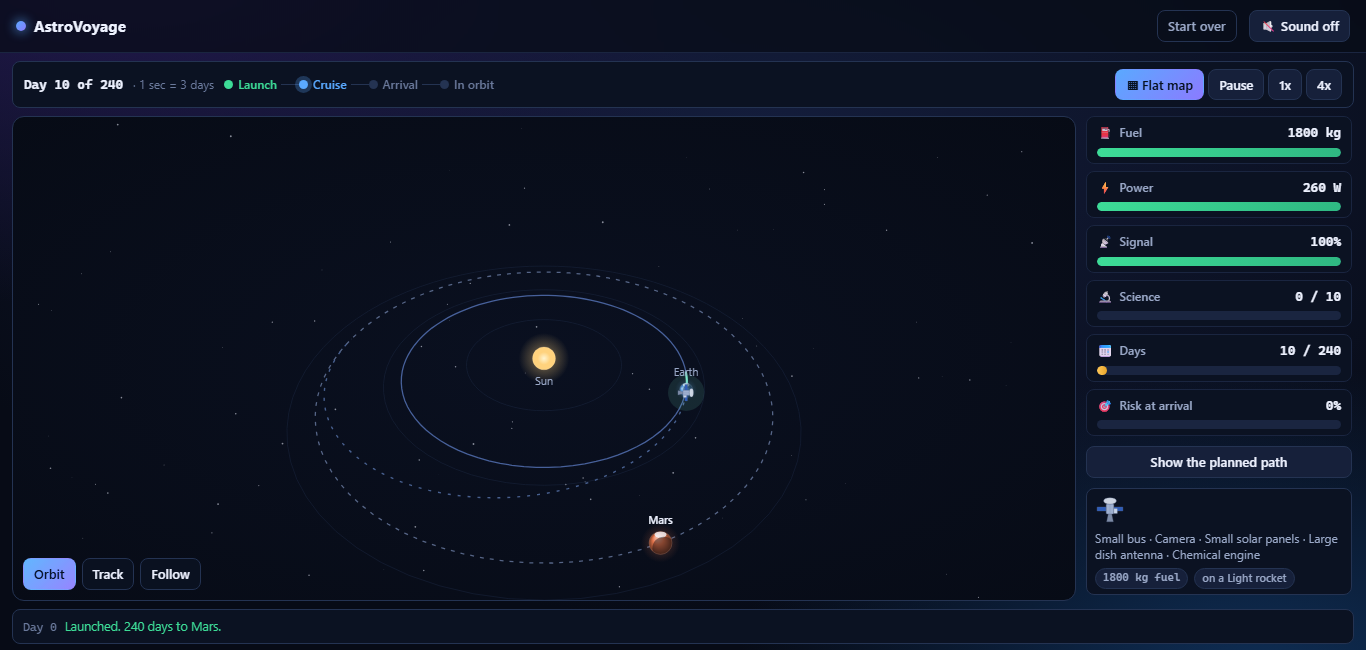
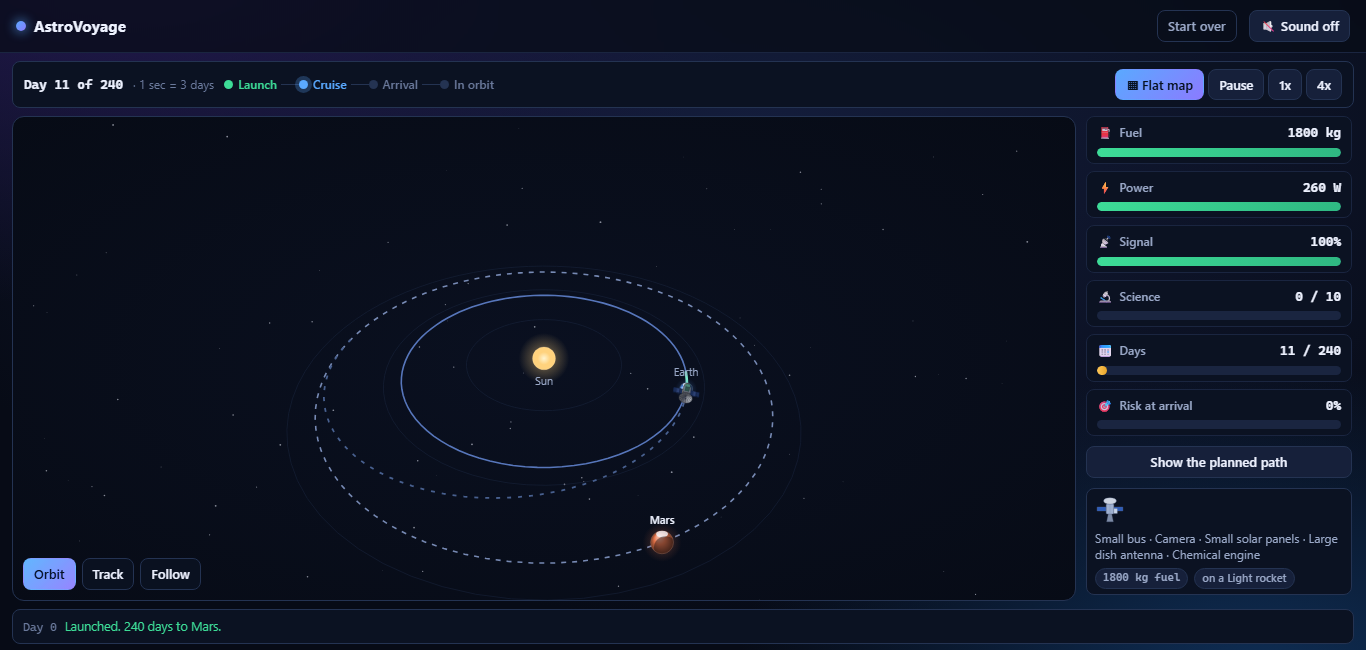
Make the 3D flight view look like something
Kunal sent a screenshot and he was right - it looked bad. Three causes:

- A huge teal blob over the middle. The spacecraft's halo was sized off the
  CAPPED on-screen radius, so in Follow it became a 240px disc. Gone.
- A flat 2D sprite pasted onto a 3D scene. The spacecraft is now the real
  solid model - the same shipFaces the Design Lab's 3D view uses - standing
  where the mission has got to, turned so its nose agrees with its heading,
  and lit from the Sun. That needed one new function, renderWith: the same
  cull-project-sort as the model viewer, but through a camera that can stand
  anywhere rather than one bolted to the +z axis.
- Orbits and the flown path too faint to read. Brighter and thicker.

And the follow camera sat dead astern, so you stared at the spacecraft's
back. It is held off to one side now for a three-quarter view, with the
spacecraft drawn half again as large, so you can see the dish, the panels,
the instrument box and the engine bell at once.

372 tests still passing. Build passes. measure clean at 1366x650 and
390x844.

diff --git a/src/components/FlightMap3D.tsx b/src/components/FlightMap3D.tsx
@@ -17,13 +17,21 @@ import {
   CAMERA_MODES,
   buildScene,
   cameraFor,
+  shipInScene,
   starSphere,
   startingPitch,
 } from "../sim/flight3d";
 import type { CameraMode } from "../sim/flight3d";
-import { projectPath, projectView, sizeAt, viewBasis } from "../sim/render3d";
+import {
+  projectPath,
+  projectView,
+  renderWith,
+  shadeColor,
+  sizeAt,
+  svgPoints,
+  viewBasis,
+} from "../sim/render3d";
 import type { SimState } from "../sim/simulation";
-import { ShipSprite } from "./Spacecraft";
 import Planet from "./Planet";
 
 interface Props {
@@ -150,6 +158,13 @@ export default function FlightMap3D({
       targetRing: projectPath(scene.targetRing, view, basis, centre),
       flownPath: projectPath(scene.path.slice(0, scene.flown + 1), view, basis, centre),
       aheadPath: projectPath(scene.path.slice(scene.flown), view, basis, centre),
+      ship3d: (() => {
+        const built = shipInScene(sim.design, scene);
+        return renderWith(built.faces, view, basis, centre, built.light, {
+          ambient: 0.34,
+          range: 0.66,
+        });
+      })(),
       sun: body(scene.sun, sceneConfig.sunRadius),
       earth: body(scene.earth, sceneConfig.earthRadius),
       target: body(scene.target, sceneConfig.targetRadius),
@@ -209,14 +224,15 @@ export default function FlightMap3D({
         {/* ---- the two orbits */}
         <g fill="none" strokeWidth={1.3}>
           {drawn.startRing.length > 1 && (
-            <polyline points={line(drawn.startRing)} stroke={colors.startRing} opacity={0.75} />
+            <polyline points={line(drawn.startRing)} stroke={colors.startRing} opacity={0.95} strokeWidth={1.6} />
           )}
           {drawn.targetRing.length > 1 && (
             <polyline
               points={line(drawn.targetRing)}
               stroke={colors.targetRing}
-              opacity={0.6}
-              strokeDasharray="4 6"
+              opacity={0.85}
+              strokeWidth={1.6}
+              strokeDasharray="5 6"
             />
           )}
         </g>
@@ -227,15 +243,15 @@ export default function FlightMap3D({
             <polyline
               points={line(drawn.aheadPath)}
               stroke={colors.pathAhead}
-              strokeWidth={1.4}
-              strokeDasharray="3 7"
+              strokeWidth={1.8}
+              strokeDasharray="4 7"
             />
           )}
           {drawn.flownPath.length > 1 && (
             <polyline
               points={line(drawn.flownPath)}
               stroke={colors.pathFlown}
-              strokeWidth={2.2}
+              strokeWidth={2.6}
               strokeLinecap="round"
             />
           )}
@@ -290,12 +306,29 @@ export default function FlightMap3D({
           );
         })}
 
-        {/* ---- and the spacecraft, always on top: it is what you came for */}
-        {drawn.ship && (
-          <g transform={`translate(${drawn.ship.x} ${drawn.ship.y})`}>
-            <circle r={drawn.ship.r * 2.6} fill={colors.trail} opacity={0.12} />
-            <ShipSprite design={sim.design} size={Math.max(16, drawn.ship.r * 2.4)} />
+        {/* ---- and the spacecraft itself, solid, pointed the way it is going.
+             Always on top: it is what you came to watch. A small marker stands
+             in for it when it is too far off to be more than a dot. */}
+        {drawn.ship3d.length > 6 ? (
+          <g>
+            {drawn.ship3d.map((face, index) => (
+              <polygon
+                key={index}
+                points={svgPoints(face.points)}
+                fill={shadeColor(face.color, face.light)}
+                stroke={shadeColor(face.color, face.light * 0.65)}
+                strokeWidth={0.4}
+                strokeLinejoin="round"
+              />
+            ))}
           </g>
+        ) : (
+          drawn.ship && (
+            <g transform={`translate(${drawn.ship.x} ${drawn.ship.y})`}>
+              <circle r={4.5} fill={colors.trail} />
+              <circle r={9} fill="none" stroke={colors.trail} strokeWidth={1} opacity={0.5} />
+            </g>
+          )
         )}
       </svg>
 

diff --git a/src/sim/flight3d.ts b/src/sim/flight3d.ts
@@ -16,8 +16,10 @@
  * Moon and a five-year haul to Jupiter alike.
  */
 import { flight3d } from "../data/game";
-import type { Vec3, View } from "./render3d";
-import { normalise, subtract } from "./render3d";
+import type { Design } from "../data/game";
+import type { Face, Vec3, View } from "./render3d";
+import { normalise, rotateY, subtract } from "./render3d";
+import { modelExtent, shipFaces } from "./shipModel3d";
 import type { SimState } from "./simulation";
 import {
   coastAngles,
@@ -164,7 +166,7 @@ export function cameraFor(scene: Scene3D, mode: CameraMode, options: CameraOptio
     // Astern and above, which is where a chase camera belongs. The spin from
     // auto-rotate swings that position round the spacecraft.
     const side = normalise({ x: -heading.z, y: 0, z: heading.x });
-    const swing = Math.sin(options.spin * 0.5) * 0.35;
+    const swing = camera.followSide + Math.sin(options.spin * 0.5) * camera.followSwing;
 
     const eye: Vec3 = {
       x: ship.x - heading.x * camera.followBack + side.x * swing * camera.followBack,
@@ -226,4 +228,50 @@ export function starSphere(): { at: Vec3; size: number }[] {
       size: 0.4 + roll() * 1.3,
     };
   });
+}
+
+/**
+ * The spacecraft you built, as a solid, standing where it actually is and
+ * pointed the way it is actually going.
+ *
+ * The model is built nose-along-+x, so it is turned about the up axis until
+ * its nose agrees with the heading, scaled down to `shipSize` system-widths,
+ * and carried out to where the mission has got to.
+ */
+export function shipInScene(
+  design: Design,
+  scene: Scene3D,
+): { faces: Face[]; light: Vec3 } {
+  const model = shipFaces(design);
+  const extent = modelExtent(model) || 1;
+  const size = flight3d.scene.shipSize / extent;
+
+  // The model's nose runs along +x; rotateY(p, -angle) swings it to the heading.
+  const angle = -Math.atan2(scene.heading.z, scene.heading.x);
+
+  const faces = model.map((face) => ({
+    ...face,
+    points: face.points.map((point) => {
+      const turned = rotateY(
+        { x: point.x * size, y: point.y * size, z: point.z * size },
+        angle,
+      );
+      return {
+        x: scene.ship.x + turned.x,
+        y: scene.ship.y + turned.y,
+        z: scene.ship.z + turned.z,
+      };
+    }),
+  }));
+
+  // Lit from the Sun, which is at the middle of everything.
+  const away = Math.hypot(scene.ship.x, scene.ship.y, scene.ship.z) || 1;
+  return {
+    faces,
+    light: {
+      x: -scene.ship.x / away,
+      y: 0.35,
+      z: -scene.ship.z / away,
+    },
+  };
 }

diff --git a/src/sim/render3d.ts b/src/sim/render3d.ts
@@ -405,3 +405,42 @@ export function sizeAt(radius: number, depth: number, view: View): number {
   if (depth < view.near) return 0;
   return (radius * view.fov) / depth;
 }
+
+/**
+ * The same rotate-cull-project-sort as `render`, but through a camera that can
+ * stand anywhere. Points are already in world space, so nothing is rotated
+ * here: whatever placed them decided which way they face.
+ */
+export function renderWith(
+  faces: Face[],
+  view: View,
+  basis: Basis,
+  centre: Point2,
+  light: Vec3,
+  shading: Shading,
+): DrawnFace[] {
+  const drawn: DrawnFace[] = [];
+
+  for (const face of faces) {
+    let normal = faceNormal(face.points);
+    const middle = centroid(face.points);
+
+    const towardsEye = normalise(subtract(basis.eye, middle));
+    const facing = dot(normal, towardsEye);
+    if (!face.twoSided && facing <= 0) continue;
+    if (face.twoSided && facing < 0) normal = { x: -normal.x, y: -normal.y, z: -normal.z };
+
+    const flat = face.points.map((p) => projectView(p, view, basis, centre));
+    if (flat.some((point) => point === null)) continue;
+
+    drawn.push({
+      points: (flat as (Point2 & { depth: number })[]).map(({ x, y }) => ({ x, y })),
+      color: face.color,
+      part: face.part,
+      depth: toCamera(middle, basis).z,
+      light: lambert(normal, light, shading),
+    });
+  }
+
+  return drawn.sort((a, b) => b.depth - a.depth);
+}

diff --git a/src/data/game.ts b/src/data/game.ts
@@ -496,6 +496,8 @@ export interface Flight3DConfig {
     followBack: number;
     followLift: number;
     followAhead: number;
+    followSide: number;
+    followSwing: number;
     minPitch: number;
     maxPitch: number;
     dragSensitivity: number;

diff --git a/STATUS.md b/STATUS.md
@@ -222,3 +222,27 @@ in the maths fails silently as an empty box.
 
 **Still open.** Music — Kunal said he would say more. The submission pack: video, project page,
 deployed link. NASA resources.
+
+## 2026-11-15 — Stage 18: the 3D view actually looks like something
+
+Kunal sent a screenshot of the 3D view and it looked bad. He was right. Three things were wrong.
+
+- **A huge teal blob.** The spacecraft's halo was sized from the capped on-screen radius, so in
+  Follow it became a 240px disc swallowing the middle of the picture. Gone.
+- **A flat 2D sprite pasted onto a 3D scene.** The spacecraft was still the map sprite. It is now
+  the real solid model — the same `shipFaces` the Design Lab's 3D view uses — placed where the
+  mission has got to, turned so its nose agrees with the heading, and lit from the Sun. This took
+  one new function, `renderWith`, which does the same cull-project-sort as the model viewer but
+  through a camera that can stand anywhere.
+- **Lines too faint to read.** The orbits and the flown path were washed out. Brighter and thicker.
+
+Also: the follow camera sat dead astern, so you stared at the spacecraft's back. It is held off to
+one side now, for a three-quarter view, and the spacecraft is drawn half again as large.
+
+Files: `src/sim/render3d.ts` (+`renderWith`), `src/sim/flight3d.ts` (+`shipInScene`),
+`src/components/FlightMap3D.tsx`, `src/data/flight3d.json`.
+
+**Numbers.** 372 tests still passing, build passes, `measure` clean at 1366×650 and 390×844.
+
+**For Kunal.** Four hours to submit. The deployed link is the thing judges click — `npm run build`
+then drag `dist/` onto netlify.com/drop.
